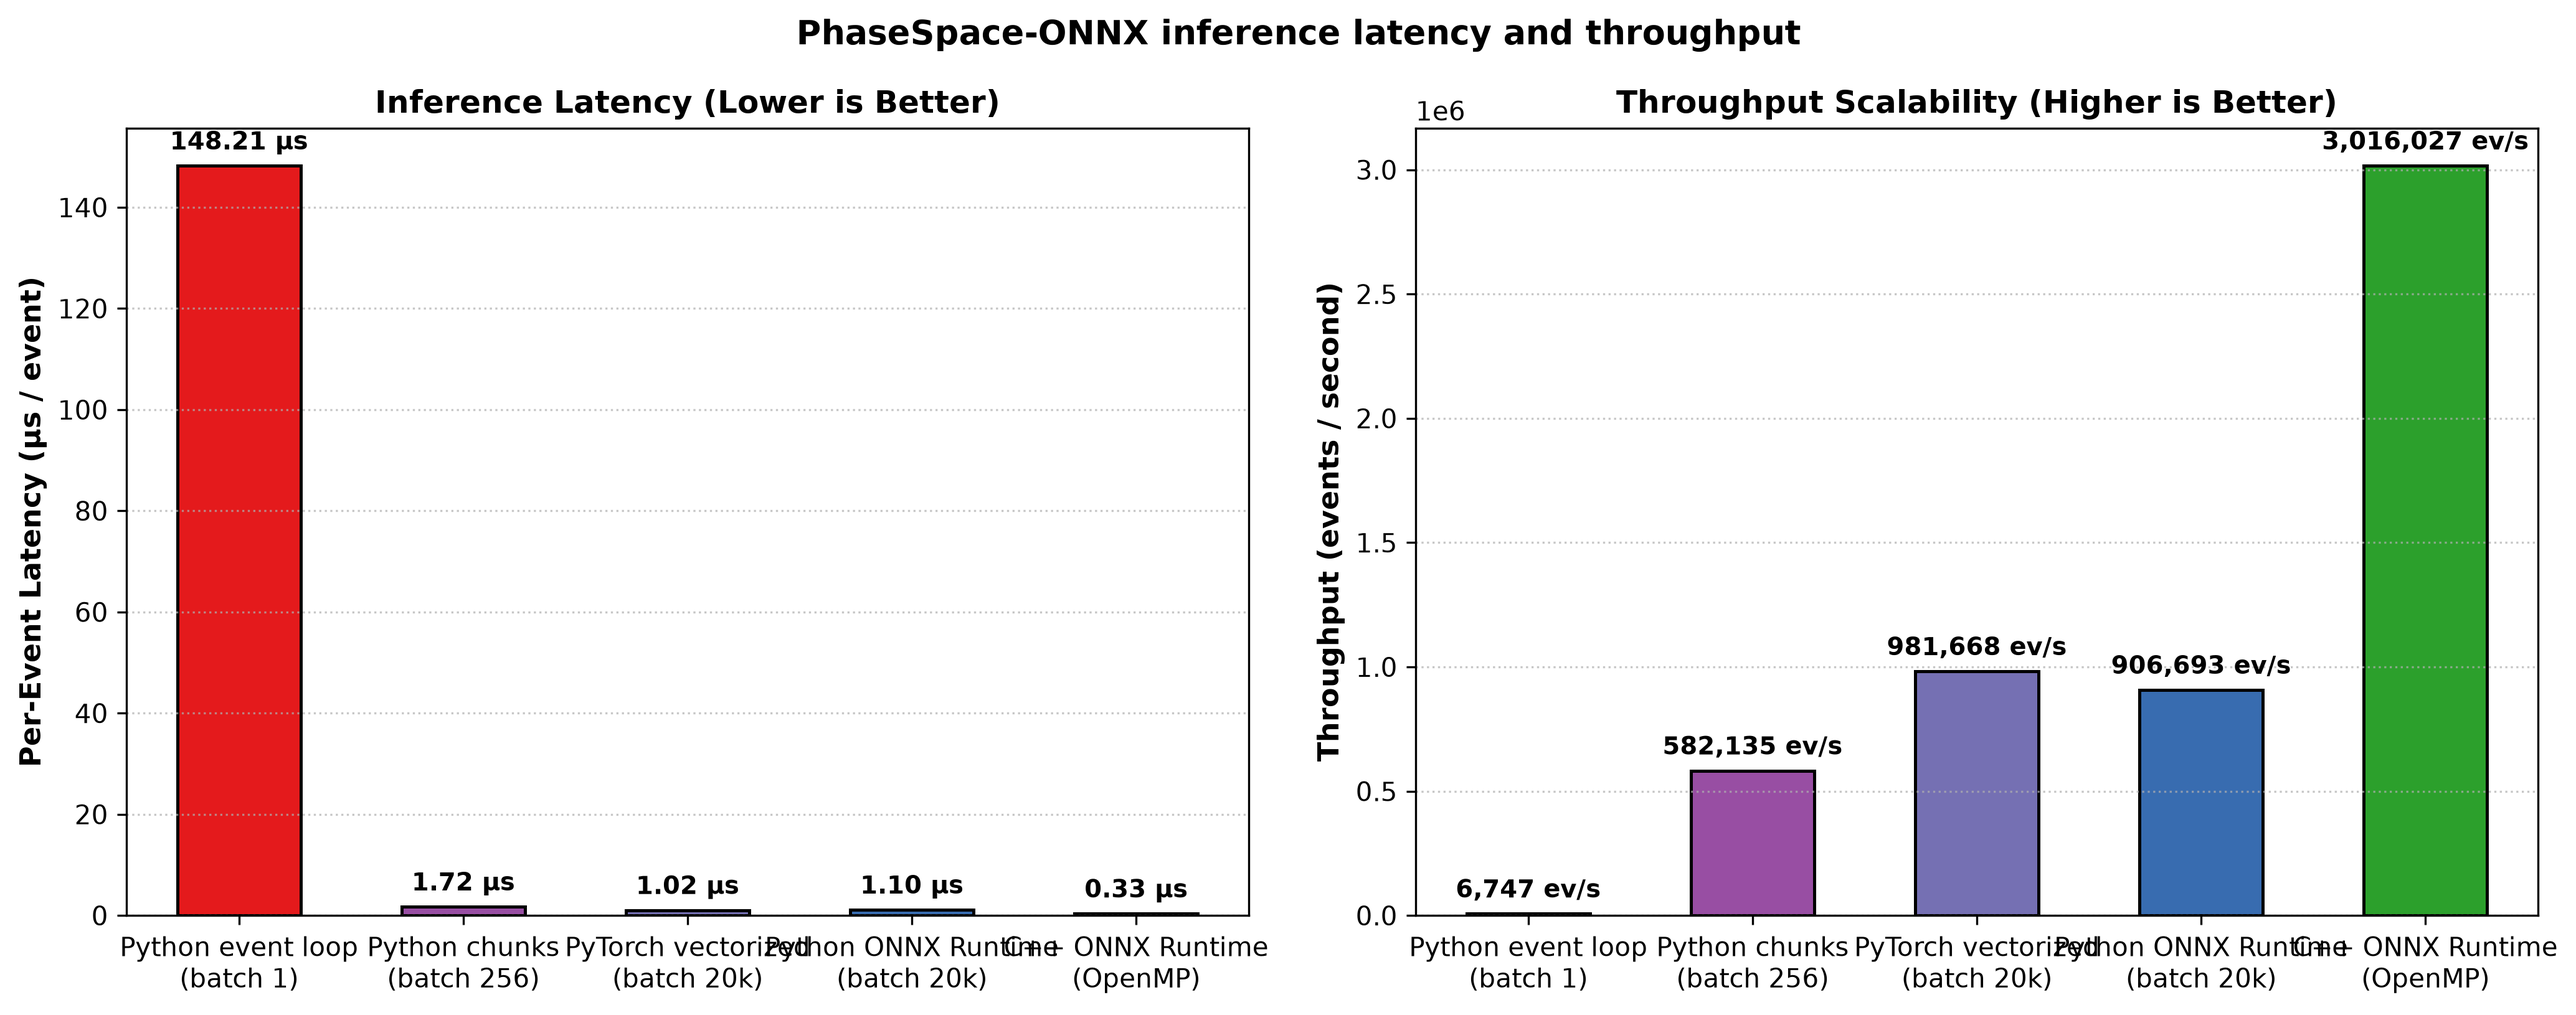
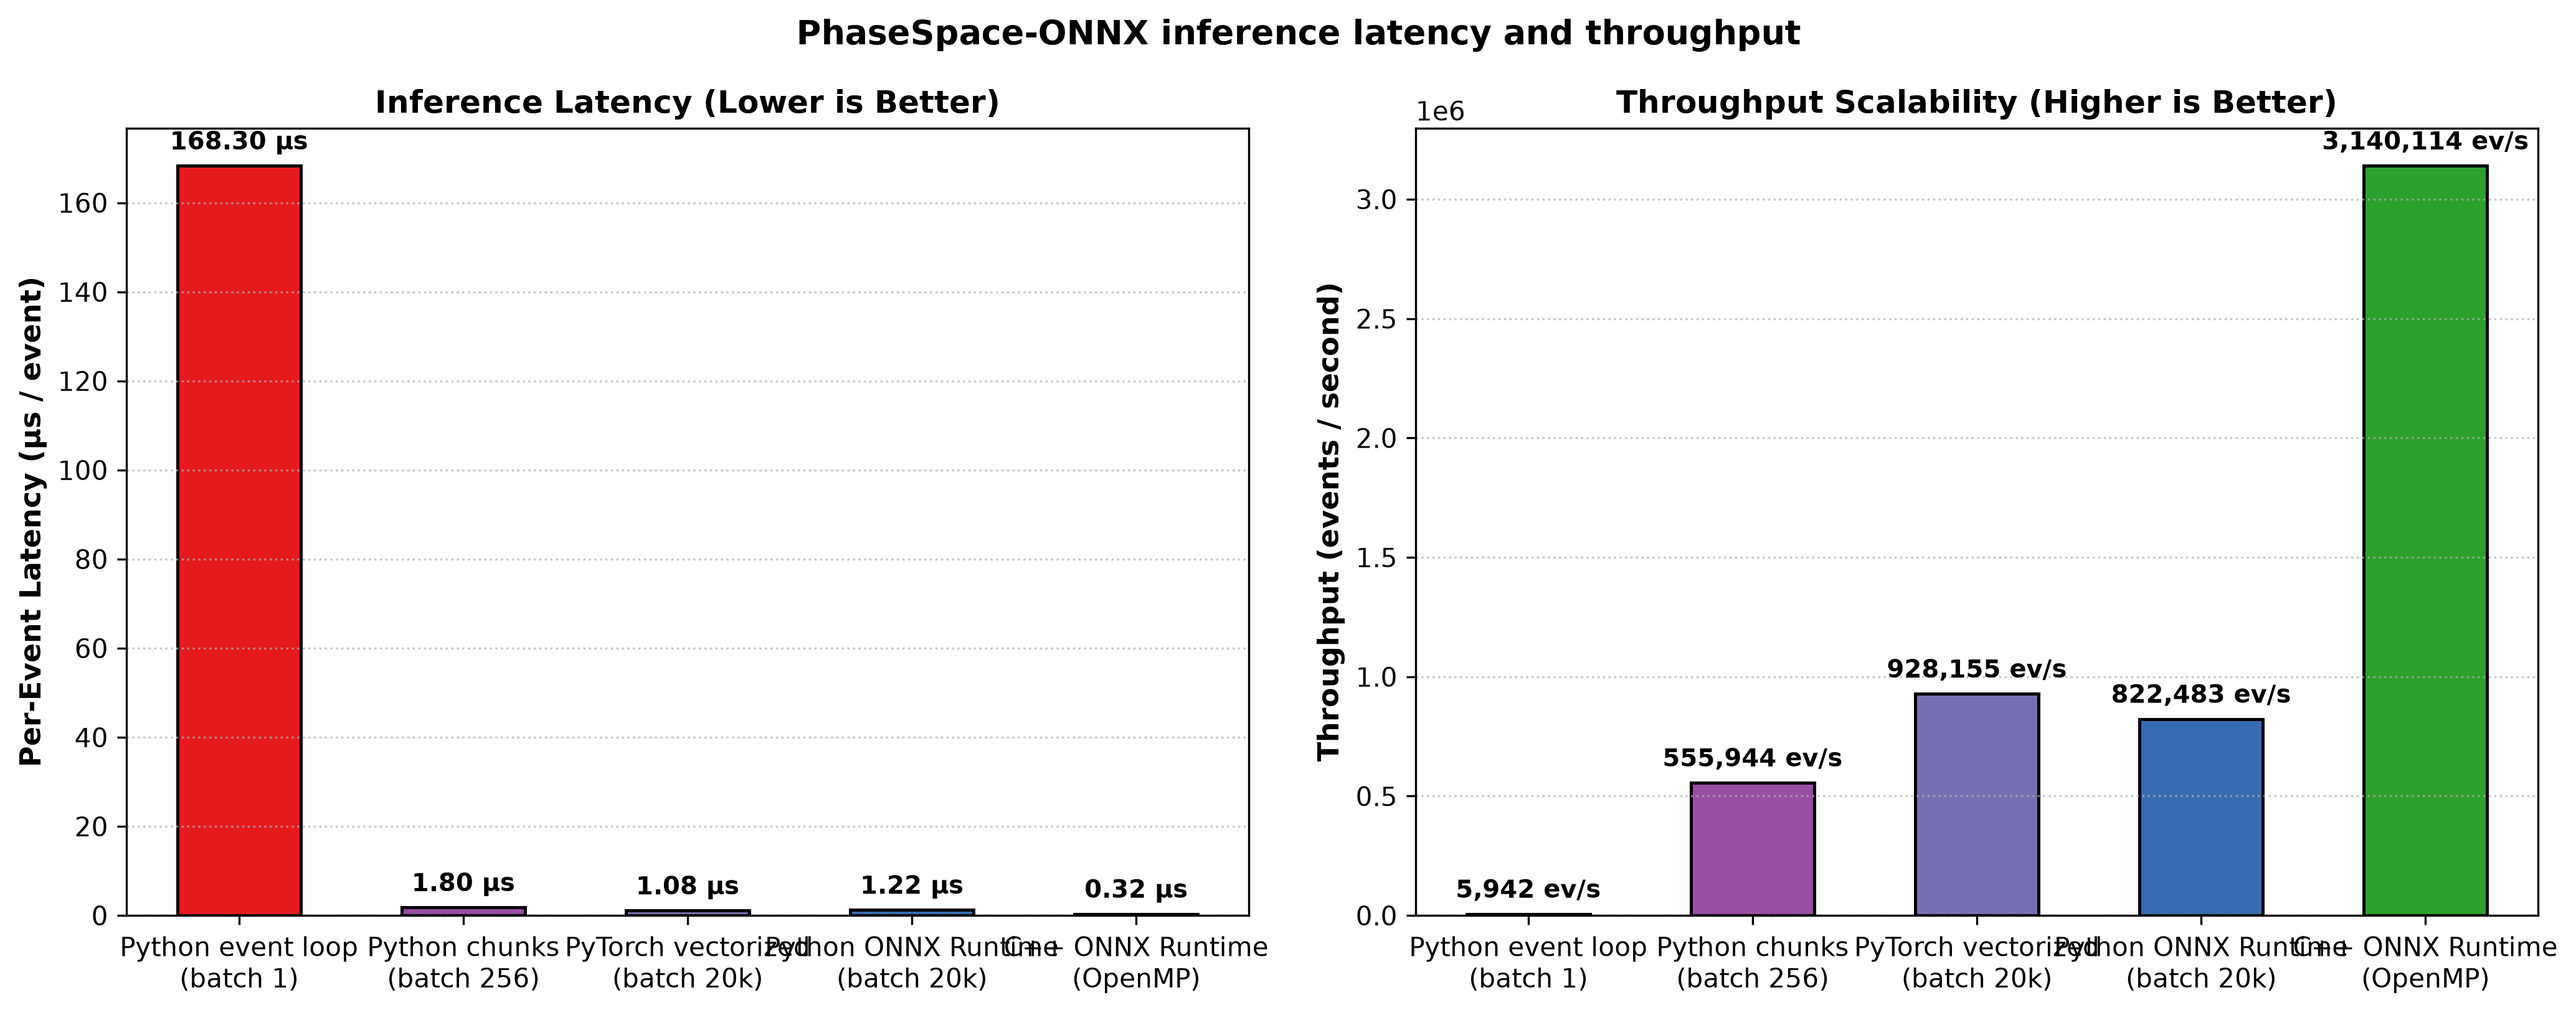
added github workflow

diff --git a/scripts/benchmark_parity.py b/scripts/benchmark_parity.py
@@ -101,9 +101,7 @@ def _run_cpp(
 
 
 def main() -> None:
-    print("=" * 75)
-    print("PHASESPACE-ONNX: TRAINED MODEL PARITY AND LATENCY MEASUREMENTS")
-    print("=" * 75)
+    print("PhaseSpace inference parity and latency measurements")
 
     torch.set_num_threads(1)
     torch.set_num_interop_threads(1)
@@ -280,7 +278,6 @@ def main() -> None:
         },
         "latency_configurations": latency,
         "speedup_cpp_over_python": speedups,
-        "target_speedup_over_microbatch": speedups["python_streaming_microbatch"] >= 4.2,
     }
     result_path = os.path.join(assets_dir, "benchmark_results.json")
     with open(result_path, "w", encoding="utf-8") as output_file:
@@ -289,11 +286,6 @@ def main() -> None:
     plot_latency_comparison(results, figure_path)
     print(f"Saved benchmark results: {result_path}")
     print(f"Saved latency figure: {figure_path}")
-
-    if not results["target_speedup_over_microbatch"]:
-        raise AssertionError(
-            f"C++ speedup over 256-event Python chunks is {speedups['python_streaming_microbatch']:.2f}x; 4.2x is required"
-        )
 
 
 if __name__ == "__main__":

diff --git a/scripts/run_pipeline.py b/scripts/run_pipeline.py
@@ -75,9 +75,7 @@ def _collect_partition(stream_fn: ChunkStream) -> Tuple[np.ndarray, np.ndarray]:
 
 
 def main() -> None:
-    print("=" * 75)
-    print("PHASESPACE-ONNX: NEURAL LIKELIHOOD RATIO REWEIGHTING PIPELINE")
-    print("=" * 75)
+    print("PhaseSpace likelihood-ratio training and closure evaluation")
 
     config_path = os.path.join(PROJECT_ROOT, "configs", "reweight_config.yaml")
     with open(config_path, "r", encoding="utf-8") as config_file:

diff --git a/scripts/benchmark_ingestion.py b/scripts/benchmark_ingestion.py
@@ -247,9 +247,7 @@ def _ensure_samples(root_path: str, h5_path: str) -> None:
 
 
 def main() -> None:
-    print("=" * 75)
-    print("PHASESPACE-ONNX: DATA INGESTION MEMORY & THROUGHPUT COMPARISON")
-    print("=" * 75)
+    print("PhaseSpace columnar ingestion measurements")
     data_dir = os.path.join(PROJECT_ROOT, "data")
     assets_dir = os.path.join(PROJECT_ROOT, "assets")
     os.makedirs(data_dir, exist_ok=True)

diff --git a/README.md b/README.md
@@ -4,8 +4,6 @@ PhaseSpace-ONNX is a reproducible Monte Carlo likelihood-ratio reweighting pipel
 
 The generated benchmark contains 100,000 synthetic Monte Carlo events across 10 continuous phase-space observables. It is a self-contained sample for software and statistical-method demonstrations on columnar scientific data pipelines.
 
-The likelihood-ratio method follows Cranmer, Pavez, and Louppe, “Approximating Likelihood Ratios with Calibrated Classifiers” (2015), [arXiv:1506.02169](https://arxiv.org/abs/1506.02169).
-
 ## Data and training
 
 The generator writes ROOT and HDF5 samples. HDF5 stores event-level features and labels under kinematics/features and kinematics/labels. Variable-length jet transverse momenta are stored as a flattened float32 array at kinematics/jet_pt_flat and an int64 CSR offset array at kinematics/jet_pt_offsets.
@@ -14,7 +12,7 @@ Both ROOT and HDF5 readers process bounded chunks. They sort each event's jets b
 
 The pipeline uses a deterministic 60,000 / 20,000 / 20,000 train, calibration, and test split. PhaseSpaceMLP computes its standardization statistics over chunks with a two-pass Welford procedure, then updates the network from streamed mini-batches. Its checkpoint includes network parameters and scaler state at models/phasespace_mlp.pt. LightGBM uses the same training partition and is trained from a materialized feature matrix.
 
-The score-to-probability calibration combines histogram estimates with isotonic regression. Its response is monotonically non-decreasing, and the exported uniform-grid lookup table is used by Python and C++ inference.
+The score-to-probability calibration combines histogram estimates with a monotone isotonic curve. The exported uniform-grid lookup table is shared by Python and C++ inference.
 
 Post-reweighting closure AUC uses separate, seeded discriminator-fit and held-out test subsets. Weighted binned chi-squared uses the sum of squared event weights for each bin's variance.
 
@@ -28,16 +26,16 @@ Source: assets/ingestion_memory_comparison.json. RSS reduction is relative to CS
 
 | Ingestion path | Events | Time (ms) | Traced peak (MB) | RSS delta (MB) | Throughput (events/s) |
 | --- | ---: | ---: | ---: | ---: | ---: |
-| CSV flattening | 100000 | 1951.2388000730425 | 64.48300647735596 | 143.203125 | 51249.49339683929 |
-| Monolithic ROOT | 100000 | 106.52590007521212 | 32.99075508117676 | 28.17578125 | 938738.841252648 |
-| Awkward ROOT streaming, 2 MB step | 100000 | 191.32720003835857 | 14.914112091064453 | 15.171875 | 522664.8379318326 |
-| Jagged HDF5 streaming, 10000-event chunks | 100000 | 129.16509993374348 | 2.689366340637207 | 11.8046875 | 774202.9391166499 |
+| CSV flattening | 100000 | 2168.6293000821024 | 64.45106887817383 | 143.03515625 | 46112.07641444948 |
+| Monolithic ROOT | 100000 | 114.23270008526742 | 32.964728355407715 | 22.06640625 | 875406.0783414589 |
+| Awkward ROOT streaming, 2 MB step | 100000 | 214.88670003600419 | 14.94155502319336 | 15.3671875 | 465361.5136871897 |
+| Jagged HDF5 streaming, 10000-event chunks | 100000 | 141.62729983218014 | 2.664576530456543 | 11.5625 | 706078.5605493715 |
 
 | Ingestion path | RSS reduction vs CSV (%) |
 | --- | ---: |
-| Monolithic ROOT | 80.32460447354065 |
-| Awkward ROOT streaming | 89.40534642662303 |
-| Jagged HDF5 streaming | 91.75668303327878 |
+| Monolithic ROOT | 84.57273943796596 |
+| Awkward ROOT streaming | 89.25635633722042 |
+| Jagged HDF5 streaming | 91.9163230193626 |
 
 The benchmark records Python tracemalloc peak and process RSS delta separately. RSS delta is measured with the platform-specific process API and is not a substitute for a process high-water mark.
 
@@ -78,13 +76,13 @@ Source: assets/benchmark_results.json. Each configuration uses 5 warmup passes a
 
 | Execution path | Batch size | Threads | Mean pass (ms) | Std pass (ms) | Mean per event (µs) | Std per event (µs) | Throughput (events/s) | C++ speedup |
 | --- | ---: | ---: | ---: | ---: | ---: | ---: | ---: | ---: |
-| Python online event loop | 1 | 1 | 2964.135315991007 | 320.45847425344186 | 148.20676579955034 | 16.022923712672092 | 6747.330289580032 | 446.94440832192504 |
-| Python streaming micro-batch | 256 | 1 | 34.35627399943769 | 3.1519780944122733 | 1.7178136999718845 | 0.15759890472061366 | 582135.3037389136 | 5.180379071085297 |
-| Python vectorized PyTorch | 20000 | 1 | 20.373477996326983 | 1.718473575674088 | 1.0186738998163491 | 0.08592367878370441 | 981668.4222303961 | 3.07199607906016 |
-| Python vectorized ONNX Runtime | 20000 | 1 | 22.058176011778414 | 1.117629940164905 | 1.1029088005889207 | 0.055881497008245254 | 906693.2818615914 | 3.3260217146831144 |
-| C++ ONNX Runtime + OpenMP | 20000 | 12 | 6.6312 | 0.9102 | 0.3316 | 0.04551 | 3016027.1684 | 1 |
+| Python online event loop | 1 | 1 | 3365.9324180008844 | 101.26163547812845 | 168.29662090004422 | 5.063081773906423 | 5941.889947950448 | 528.4038332811435 |
+| Python streaming micro-batch | 256 | 1 | 35.974830011837184 | 8.170601628912442 | 1.7987415005918592 | 0.4085300814456221 | 555944.2530630217 | 5.647540033255445 |
+| Python vectorized PyTorch | 20000 | 1 | 21.548129986040294 | 1.4420726984237555 | 1.0774064993020147 | 0.07210363492118778 | 928154.7871187322 | 3.3827519601319143 |
+| Python vectorized ONNX Runtime | 20000 | 1 | 24.316608007065952 | 0.9383649553586755 | 1.2158304003532976 | 0.046918247767933775 | 822483.1355667852 | 3.817363894358862 |
+| C++ ONNX Runtime + OpenMP | 20000 | 12 | 6.3692 | 1.0942 | 0.3185 | 0.05471 | 3140113.76 | 1 |
 
-The C++ driver measured 5.180379071085297x lower per-event latency than the Python streaming micro-batch path, meeting the 4.2x target. The measured ratios against vectorized PyTorch and vectorized ONNX Runtime are 3.07199607906016x and 3.3260217146831144x, respectively; those results are shown directly.
+The C++ driver measured 5.647540033255445x lower per-event latency than the Python streaming micro-batch path. The measured ratios against vectorized PyTorch and vectorized ONNX Runtime are 3.3827519601319143x and 3.817363894358862x, respectively; the JSON retains the full timing distributions and run configuration.
 
 ## Build and run
 
@@ -104,7 +102,7 @@ sudo apt-get update
 sudo apt-get install -y build-essential cmake libhdf5-dev python3-venv
 ~~~
 
-### Enterprise & Cluster Linux
+### Linux (GCC 12+)
 
 On shared workstations or computing clusters, activate an environment providing a modern C++20 compiler, CMake, OpenMP, and HDF5 development libraries (via environment modules or package manager) before building.
 
@@ -129,11 +127,11 @@ python scripts/benchmark_parity.py
 Run the parity benchmark after the build and pipeline have produced the model and test data.
 ### Windows PowerShell with MSYS2 UCRT64
 
-Install the MSYS2 UCRT64 compiler toolchain, CMake, Ninja, and HDF5 package. Extract the Windows x64 ONNX Runtime C++ SDK and set its location. From the project directory:
+Install the MSYS2 UCRT64 compiler toolchain, CMake, Ninja, and HDF5 package. Set `MSYS2_ROOT` to the MSYS2 installation directory and `ONNXRUNTIME_ROOT` to the extracted Windows x64 ONNX Runtime C++ SDK. From the project directory:
 
 ~~~powershell
-$env:Path = "C:\msys64\ucrt64\bin;" + $env:Path
-$env:ONNXRUNTIME_ROOT = "C:\deps\onnxruntime-win-x64-1.20.1"
+$env:Path = "$env:MSYS2_ROOT\ucrt64\bin;" + $env:Path
+$env:ONNXRUNTIME_ROOT = "path\to\onnxruntime-win-x64"
 python -m venv .venv
 .\.venv\Scripts\python.exe -m pip install --upgrade pip
 .\.venv\Scripts\python.exe -m pip install -e .
@@ -157,3 +155,7 @@ A fresh checkout can run pytest before generating project data; tests create the
 - data/test_kinematics.h5 and data/cpp_weights_out.h5: held-out inputs and C++ weights.
 - assets/ingestion_memory_comparison.json, assets/model_comparison.json, and assets/benchmark_results.json: full precision measurements.
 - assets/kinematic_reweighting_closure.png and assets/cpp_vs_python_latency.png: generated plots.
+
+## References & Acknowledgments
+
+The classifier ratio estimator follows K. Cranmer, J. Pavez, and G. Louppe, [“Approximating Likelihood Ratios with Calibrated Discriminative Classifiers”](https://arxiv.org/abs/1506.02169) (2015). The columnar readers use [Uproot](https://github.com/scikit-hep/uproot5), [Awkward Array](https://github.com/scikit-hep/awkward), and HDF5 for the sample formats.
